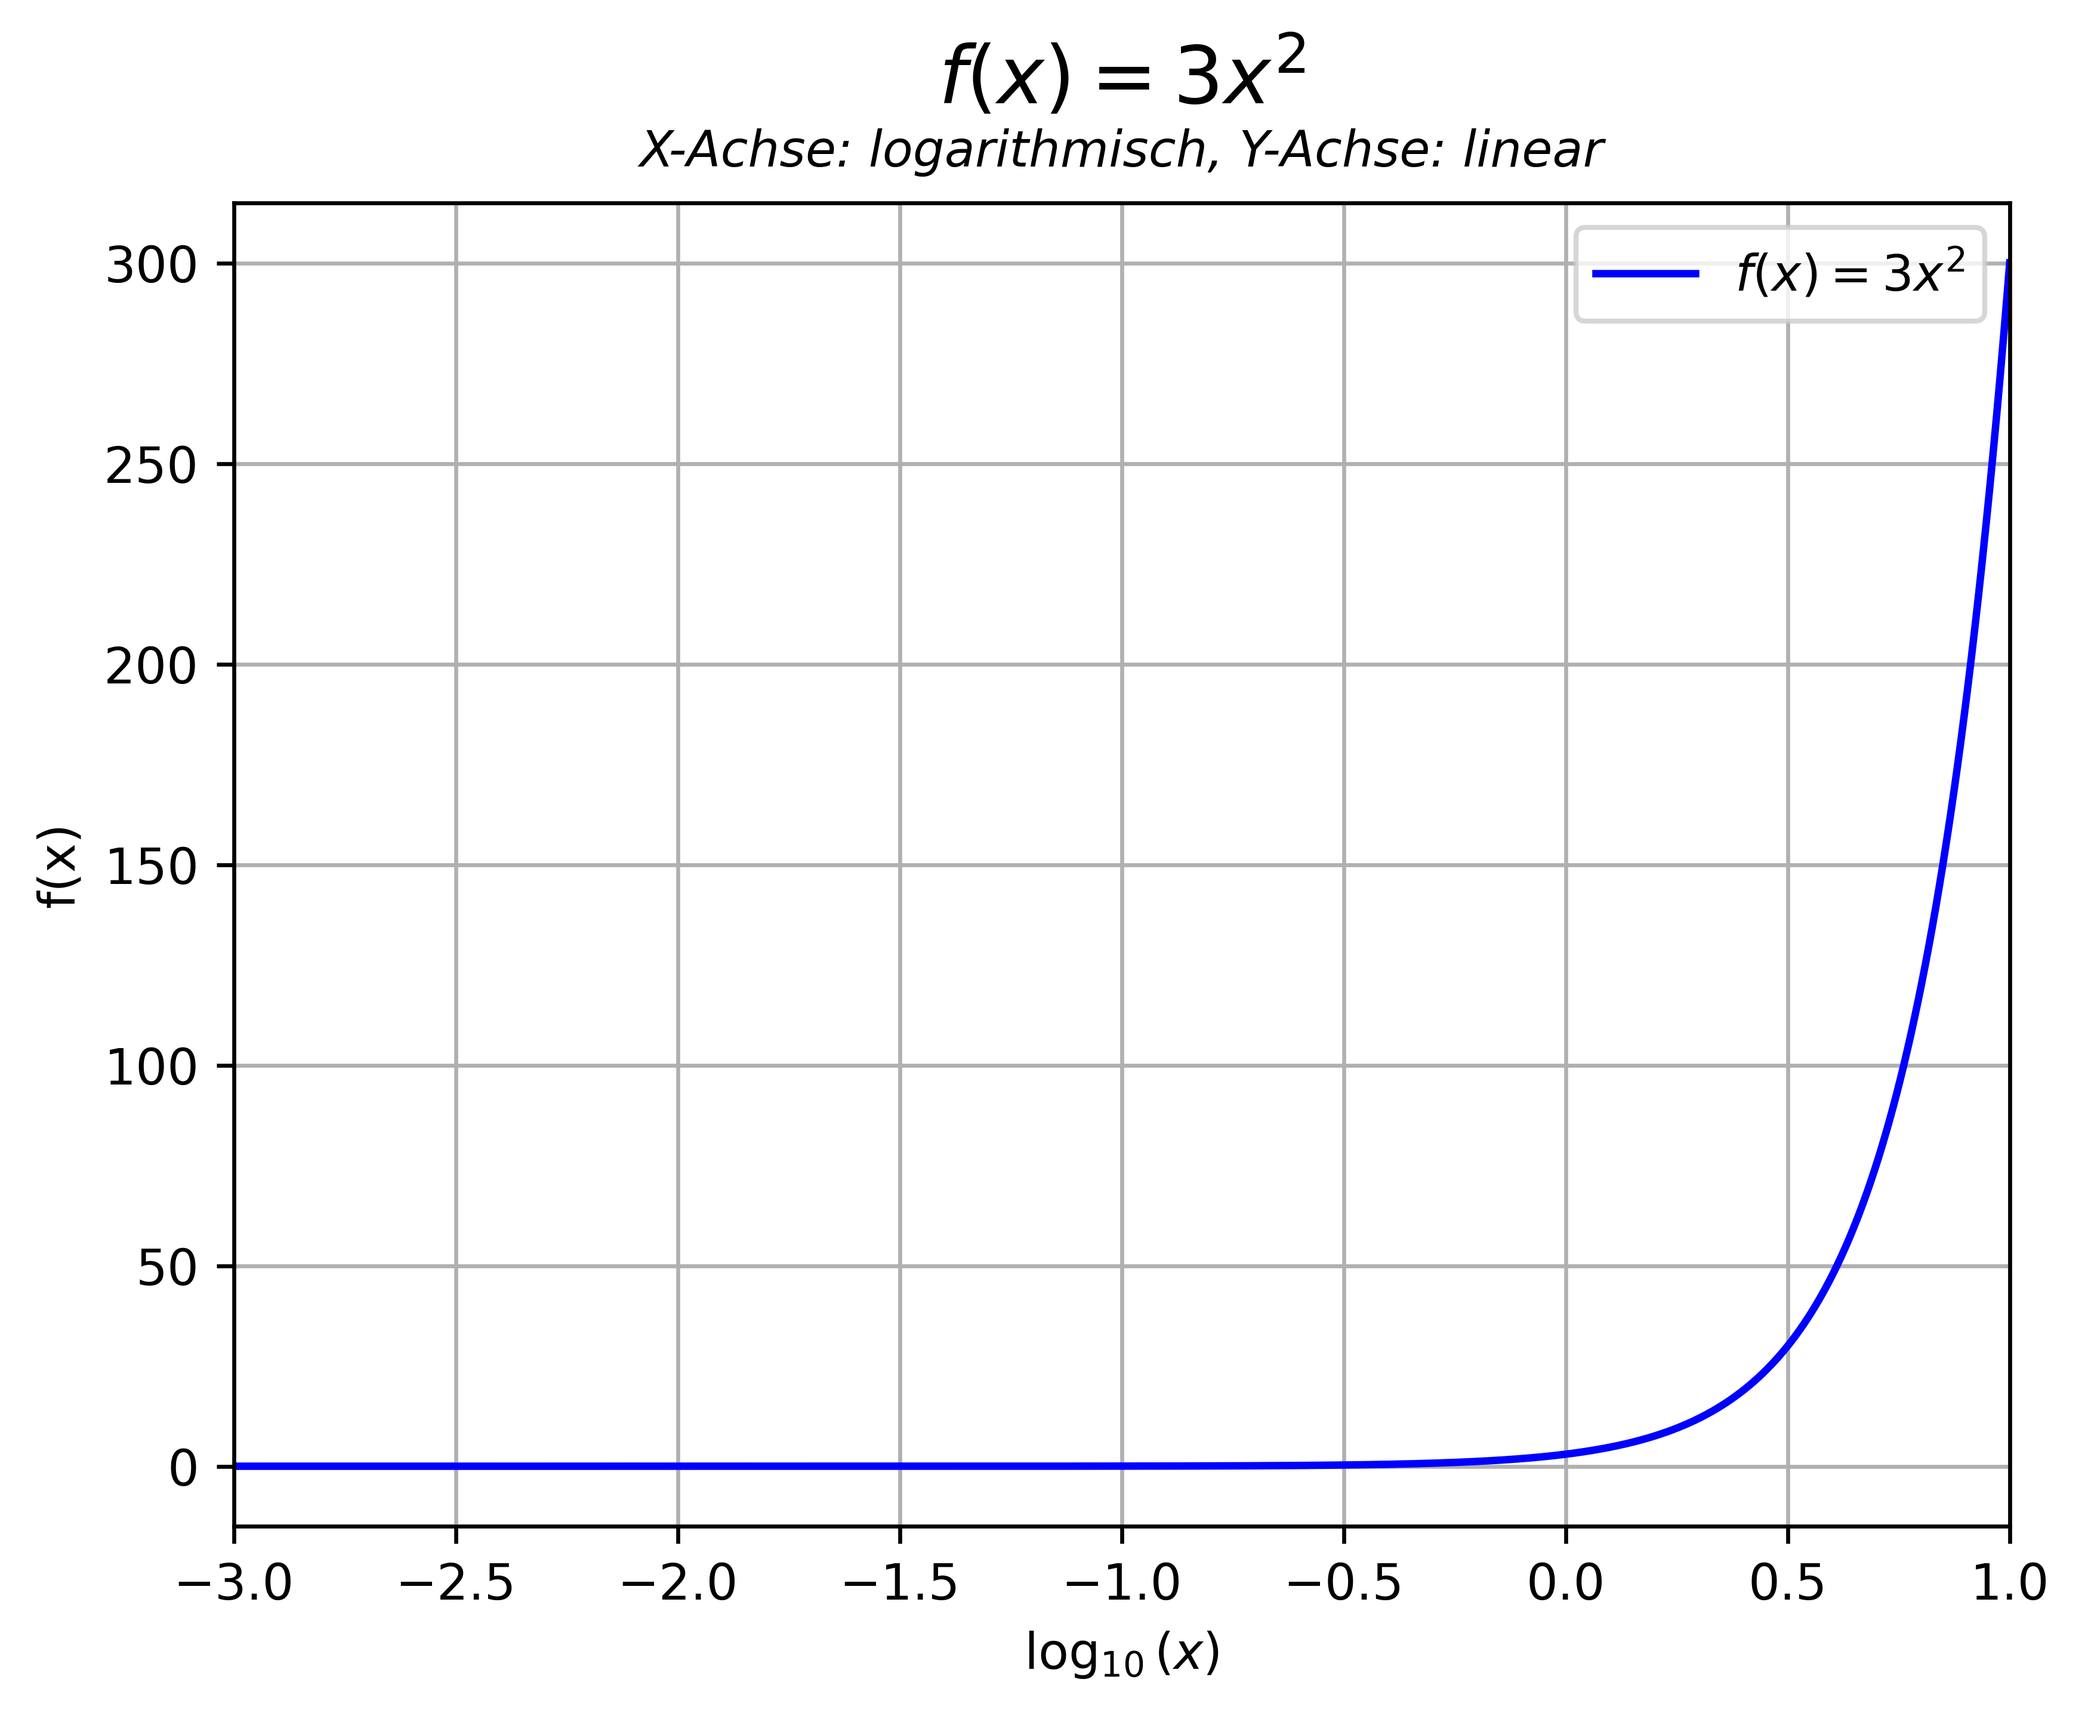
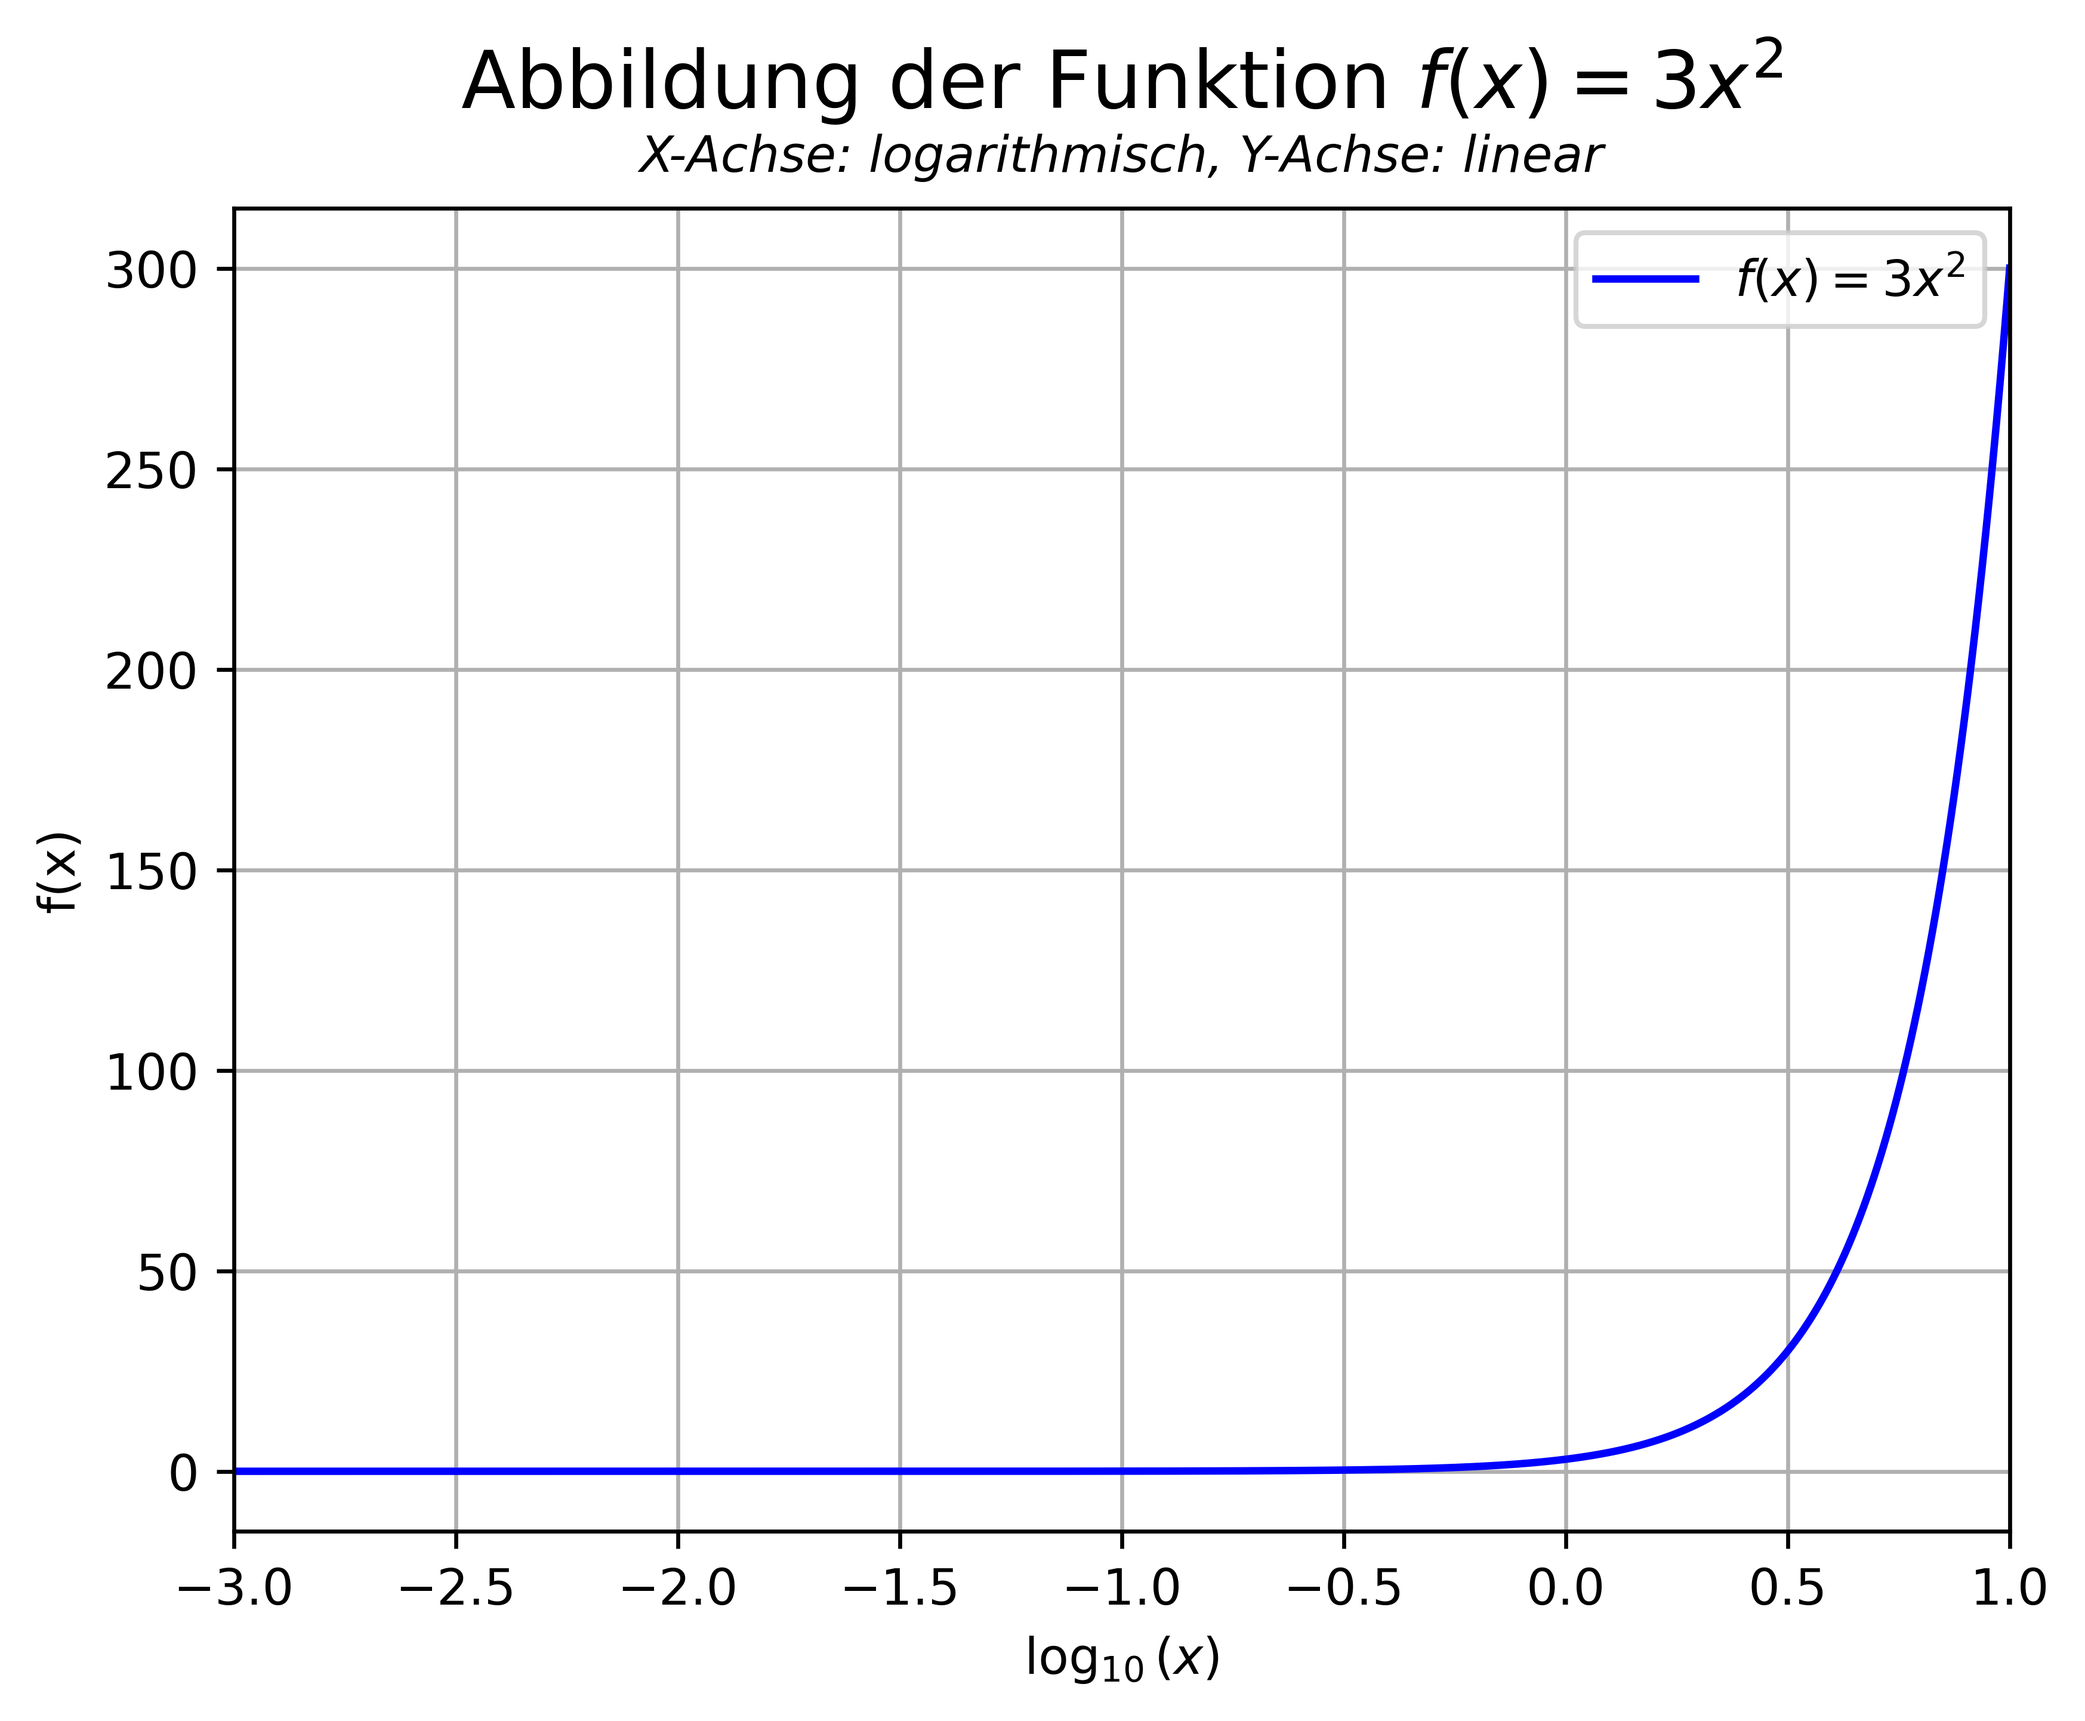
Aufgabe 3 fertig

diff --git a/Aufgabe3.py b/Aufgabe3.py
@@ -1,88 +1,58 @@
-import numpy as np
 import matplotlib.pyplot as plt
-import os
+import numpy as np
+#Definiere h
+hvalue = 1e-12
+minvalue = 0
+maxvalue = np.pi
 
-# Funktion
+#Funktion f(x) = cos(x)
+#Funktion wird einmal definiert damit es simplere Aufrufe gibt
 def f(x):
-    return 3 * x**2
+    return np.cos(x)
 
-# Ordner für Bilder
-out_dir = "Bilder"
-os.makedirs(out_dir, exist_ok=True)
+def g(x,h=hvalue):
+    return (f(x+h)-f(x))/h
 
-def aufgabe2_alle():
-    # x-Bereiche
-    x_lin = np.linspace(0, 10, 1000)    # für lineare Skalen
-    x_pos = np.linspace(0.1, 10, 1000)  # für log-Skalen (x > 0!)
-    y_lin = f(x_lin)
-    y_pos = f(x_pos)
+def h(x,h=hvalue):
+    return (f(x+h/2)-f(x-h/2))/h
 
-    # 1) linear-linear
-    fig, ax = plt.subplots(figsize=(5.8, 4))   # gut druckbar (A5 quer)
-    ax.plot(x_lin, y_lin, color="blue", label=r"$f(x) = 3x^2$")
-    ax.set_title(r"$f(x) = 3x^2$" "\nX: linear, Y: linear")
+def Aufgabe3():
+    # Definiert den Wertebereich der Funktion
+    x = np.linspace(minvalue, maxvalue, 30000)
+    y_f = f(x)
+    y_g = g(x)
+    y_h = h(x)
+    # Figure + Achse
+    fig, ax = plt.subplots()
+    # Graph zeichnen
+    ax.plot(x, y_f, color="blue", label=r"f(x) = cos(x)")
+    ax.plot(x, y_g, color="green", label=r"$g(x) = \frac{(x + h) - x}{h}$")
+    ax.plot(x, y_h, color="orange", label=r"$h(x) = \frac{\left(x + \frac{h}{2}\right) - \left(x - \frac{h}{2}\right)}{h}$")
+    # 1. Zeile: Formel, größere Schrift
+    ax.set_title(r"Ableitung der Funktion $f(x) = cos (x)$", fontsize=16, pad=20)
+    # 2. Zeile: kleinere Schrift, direkt unter der ersten
+    ax.text(
+        0.5, 1.02,
+        f"Annäherung der Funktion mit h={hvalue}",
+        transform=ax.transAxes,
+        ha="center",
+        va="bottom",
+        fontsize=10,
+        style="italic"
+    )
+    # Achsenbeschriftungen
     ax.set_xlabel("x")
-    ax.set_ylabel("f(x)")
-    ax.grid(True)
+    ax.set_ylabel("y")
+    # Gitterlinien für Plot
+    ax.grid(True, which="major")
+    ax.grid(True, which="minor",linewidth=0.5)
+    #Legende aktivieren
     ax.legend()
-    fig.savefig(os.path.join(out_dir, "aufgabe2_1_linear_linear.png"),
-                dpi=600, bbox_inches="tight")
+    # Bereich einschränken
+    ax.set_xlim(minvalue, maxvalue)
+    fig.savefig(r"Bilder\aufgabe3.png", dpi=600, bbox_inches="tight")
 
-    # 2) log x, linear y
-    fig, ax = plt.subplots(figsize=(5.8, 4))
-    ax.plot(x_pos, y_pos, color="blue", label=r"$f(x) = 3x^2$")
-    ax.set_xscale("log")
-    ax.set_title(r"$f(x) = 3x^2$" "\nX: logarithmisch, Y: linear")
-    ax.set_xlabel("x (log)")
-    ax.set_ylabel("f(x)")
-    ax.grid(True, which="both")
-    ax.legend()
-    fig.savefig(os.path.join(out_dir, "aufgabe2_2_logx_linear.png"),
-                dpi=600, bbox_inches="tight")
-
-    # 3) linear x, log y
-    fig, ax = plt.subplots(figsize=(5.8, 4))
-    ax.plot(x_pos, y_pos, color="blue", label=r"$f(x) = 3x^2$")
-    ax.set_yscale("log")
-    ax.set_title(r"$f(x) = 3x^2$" "\nX: linear, Y: logarithmisch")
-    ax.set_xlabel("x")
-    ax.set_ylabel("f(x) (log)")
-    ax.grid(True, which="both")
-    ax.legend()
-    fig.savefig(os.path.join(out_dir, "aufgabe2_3_linear_logy.png"),
-                dpi=600, bbox_inches="tight")
-
-    # 4) log x, log y
-    fig, ax = plt.subplots(figsize=(5.8, 4))
-    ax.plot(x_pos, y_pos, color="blue", label=r"$f(x) = 3x^2$")
-    ax.set_xscale("log")
-    ax.set_yscale("log")
-    ax.set_title(r"$f(x) = 3x^2$" "\nX: logarithmisch, Y: logarithmisch")
-    ax.set_xlabel("x (log)")
-    ax.set_ylabel("f(x) (log)")
-    ax.grid(True, which="both")
-    ax.legend()
-    fig.savefig(os.path.join(out_dir, "aufgabe2_4_logx_logy.png"),
-                dpi=600, bbox_inches="tight")
-
-    # 5) u-v-Plot mit log10
-    # u = log10(x), v = log10(y) = log10(3) + 2*log10(x)
-    u = np.log10(x_pos)
-    v = np.log10(y_pos)
-
-    fig, ax = plt.subplots(figsize=(5.8, 4))
-    ax.plot(u, v, color="blue", label=r"$v = 2u + \log_{10}(3)$")
-    ax.set_title("u-v-Darstellung\n"
-                 r"$u = \log_{10}(x),\ v = \log_{10}(y)$")
-    ax.set_xlabel(r"$u = \log_{10}(x)$")
-    ax.set_ylabel(r"$v = \log_{10}(y)$")
-    ax.grid(True)
-    ax.legend()
-    fig.savefig(os.path.join(out_dir, "aufgabe2_5_uv_plot.png"),
-                dpi=600, bbox_inches="tight")
-
-    # Wenn du alle nacheinander sehen willst:
-    plt.show()
-
+#Aufruf der Funktion
 if __name__ == "__main__":
-    aufgabe2_alle()
+    Aufgabe3()
+    plt.show()

diff --git a/Aufgabe2.py b/Aufgabe2.py
@@ -5,7 +5,6 @@ import numpy as np
 #Funktion wird einmal definiert damit es simplere Aufrufe gibt
 def f(x):
     return 3*x**2
-#Funktion g(x) = 3*10**2*log10(x**2)
 minvalue = 1e-3
 
 #Funktion lineare Skala mit f(x)
@@ -18,7 +17,7 @@ def Aufgabe2_linear_linear_1():
     # Graph zeichnen
     ax.plot(x, y, color="blue", label=r"$f(x) = 3x^2$")
     # 1. Zeile: Formel, größere Schrift
-    ax.set_title(r"$f(x) = 3x^2$", fontsize=16, pad=20)
+    ax.set_title(r"Abbildung der Funktion $f(x) = 3x^2$", fontsize=16, pad=20)
     # 2. Zeile: kleinere Schrift, direkt unter der ersten
     ax.text(
         0.5, 1.02,
@@ -52,7 +51,7 @@ def Aufgabe2_linear_linear_2():
     # Graph zeichnen
     ax.plot(u, y, color="blue", label=r"$f(x) = 3x^2$")
     # 1. Zeile: Formel, größere Schrift
-    ax.set_title(r"$f(x) = 3x^2$", fontsize=16, pad=20)
+    ax.set_title(r"Abbildung der Funktion $f(x) = 3x^2$", fontsize=16, pad=20)
     # 2. Zeile: kleinere Schrift, direkt unter der ersten
     ax.text(
         0.5, 1.02,
@@ -88,7 +87,7 @@ def Aufgabe2_linear_linear_3():
     # Graph zeichnen
     ax.plot(u, v, color="blue", label=r"$f(x) = 3x^2$")
     # 1. Zeile: Formel, größere Schrift
-    ax.set_title(r"$f(x) = 3x^2$", fontsize=16, pad=20)
+    ax.set_title(r"Abbildung der Funktion $f(x) = 3x^2$", fontsize=16, pad=20)
     # 2. Zeile: kleinere Schrift, direkt unter der ersten
     ax.text(
         0.5, 1.02,
@@ -124,7 +123,7 @@ def Aufgabe2_log_linear():
     ax.set_xscale("log")
     ax.set_yscale("linear")
     # 1. Zeile: Formel, größere Schrift
-    ax.set_title(r"$f(x) = 3x^2$", fontsize=16, pad=20)
+    ax.set_title(r"Abbildung der Funktion $f(x) = 3x^2$", fontsize=16, pad=20)
     # 2. Zeile: kleinere Schrift, direkt unter der ersten
     ax.text(
         0.5, 1.02,
@@ -160,7 +159,7 @@ def Aufgabe2_log_log():
     ax.set_xscale("log")
     ax.set_yscale("log")
     # 1. Zeile: Formel, größere Schrift
-    ax.set_title(r"$f(x) = 3x^2$", fontsize=16, pad=20)
+    ax.set_title(r"Abbildung der Funktion $f(x) = 3x^2$", fontsize=16, pad=20)
     # 2. Zeile: kleinere Schrift, direkt unter der ersten
     ax.text(
         0.5, 1.02,
